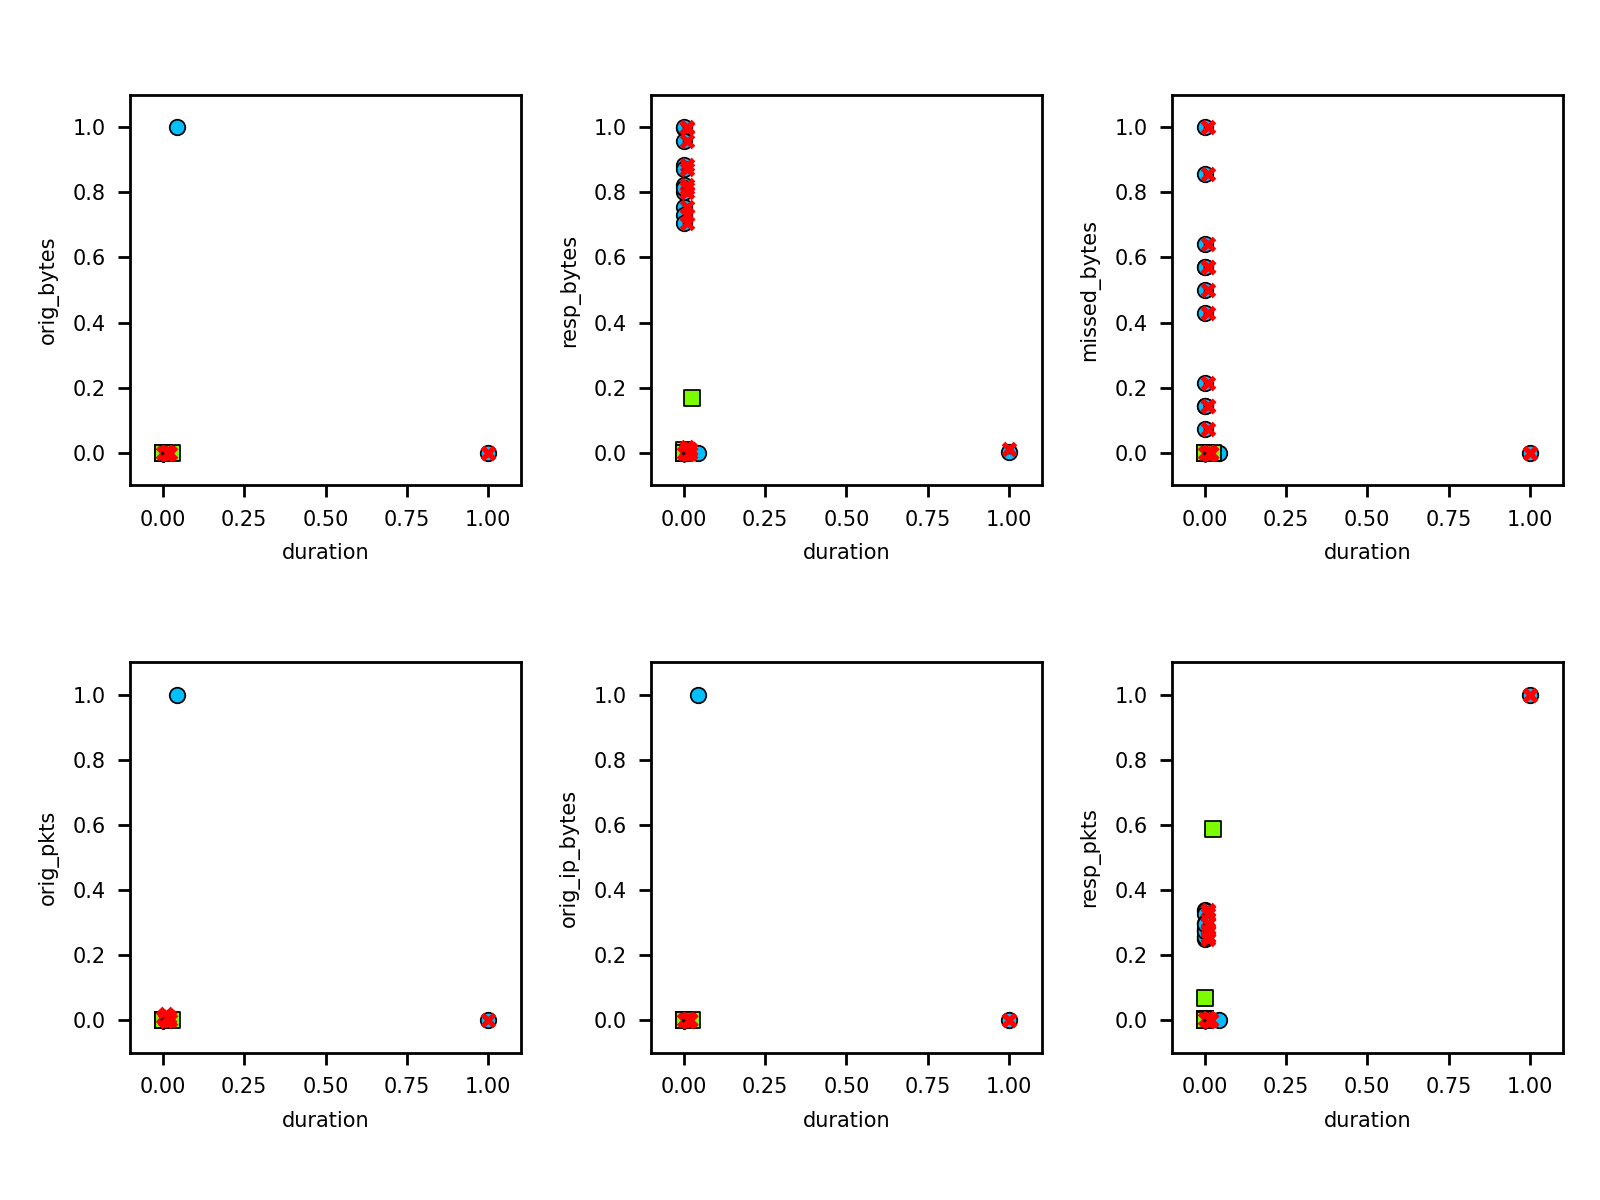
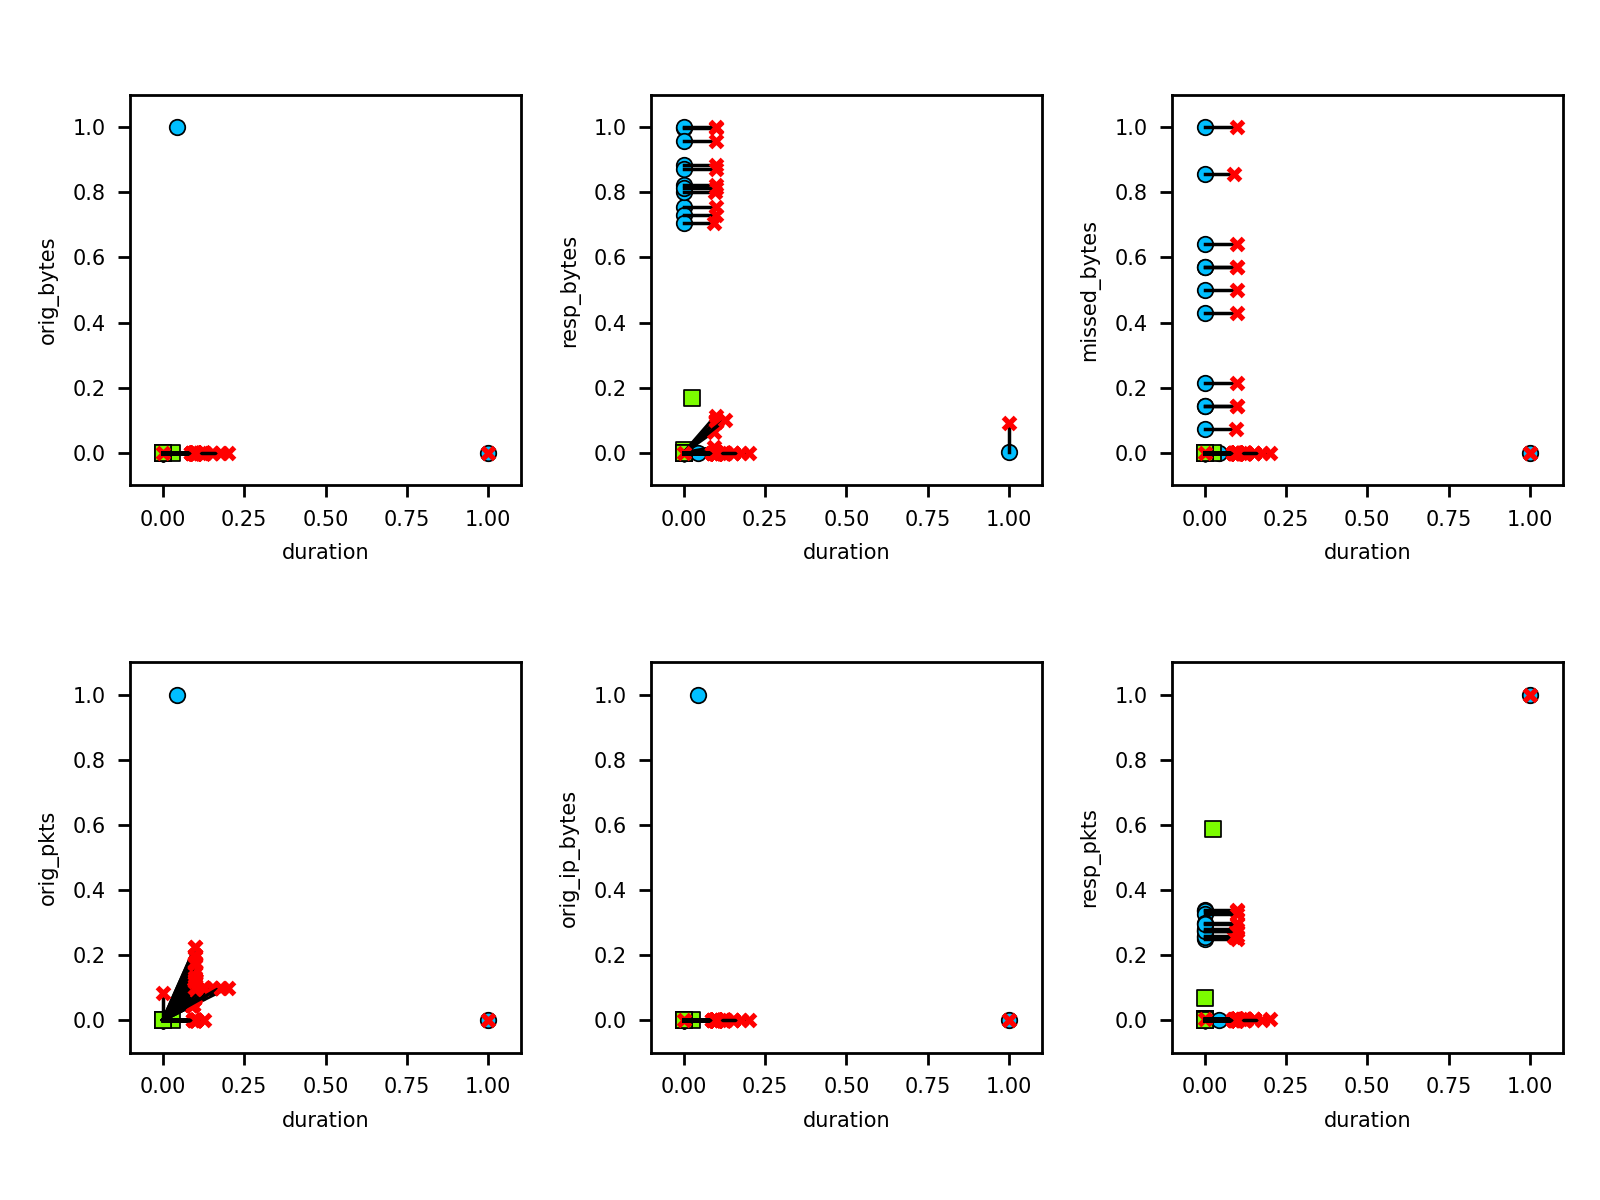
rerun zoo

diff --git a/src/attack_zoo.py b/src/attack_zoo.py
@@ -45,9 +45,9 @@ def adversarial_iot(classifier, x_train):
         targeted=False,
         # The initial learning rate for the attack algorithm. Smaller
         # values produce better results but are slower to converge.
-        learning_rate=1e-2,
+        learning_rate=1e-1,
         # The maximum number of iterations.
-        max_iter=1000,
+        max_iter=80,
         # Number of times to adjust constant with binary search
         # (positive value).
         binary_search_steps=10,
@@ -62,7 +62,7 @@ def adversarial_iot(classifier, x_train):
         # True if to use the resizing strategy from the paper: first,
         # compute attack on inputs resized to 32x32, then increase
         # size if needed to 64x64, followed by 128x128.
-        use_resize=True,
+        use_resize=False,
         # True if to use importance sampling when choosing coordinates
         # to update.
         use_importance=False,
@@ -72,7 +72,7 @@ def adversarial_iot(classifier, x_train):
         # generated. Only size 1 is supported.
         batch_size=1,
         # Step size for numerical estimation of derivatives.
-        variable_h=0.1,
+        variable_h=0.3,
         # Show progress bars.
         verbose=True) \
         .generate(x=x_train)

diff --git a/src/utility.py b/src/utility.py
@@ -7,17 +7,21 @@ from colorama import Fore, Style  # terminal colors
 from sklearn.model_selection import train_test_split
 
 DEFAULT_DS = 'data/CTU-44-1.csv'
+"""When no dataset is defined, use this one by default."""
 
 
 def text_label(i):
+    """convert text label to numeric"""
     return 'benign' if i == 1 else 'malicious'
 
 
 def int_label(text):
+    """convert numeric label to text label"""
     return 1 if text.lower() == 'benign' else 0
 
 
 def show(msg, value, end='\n'):
+    """Pretty print output with colors and alignment"""
     print(f'{msg} '.ljust(30, '-'), color_text(value), end=end)
 
 

diff --git a/adversarial_dt/readme.md b/adversarial_dt/readme.md
@@ -5,14 +5,15 @@ CTU-Malware-Capture-44-1, with 237 rows (benign 211, malicious 26), 90 / 10 spli
 [scikit learn decision tree][1]. We then apply various adversarial attacks from the [Adversarial Robustness Toolbox][2]
 to attack this classifier.
 
-
-## Implementation steps
+**Steps***
 
 1. Basic decision tree classifier implementation in `src/tree.py`
 
     ```text
     python src/tree.py 
     ```
+
+   ![image](CTU-44-1.png)   
 
 2. Implement adversarial examples
 
@@ -131,17 +132,13 @@ python src/attack_zoo.py
 - black line: difference between original and adversarial
 
  
-![img](iot-23_1.png) 
+![img](non_robust_1.png) 
  
-![img](iot-23_2.png) 
+![img](non_robust_2.png) 
   
-![img](iot-23_3.png) 
+![img](non_robust_3.png) 
  
-![img](iot-23_4.png) 
-
-### Decision tree visualization
-  
-![image](CTU-44-1.png)   
+![img](non_robust_4.png)
 
   
 <!-- references -->
